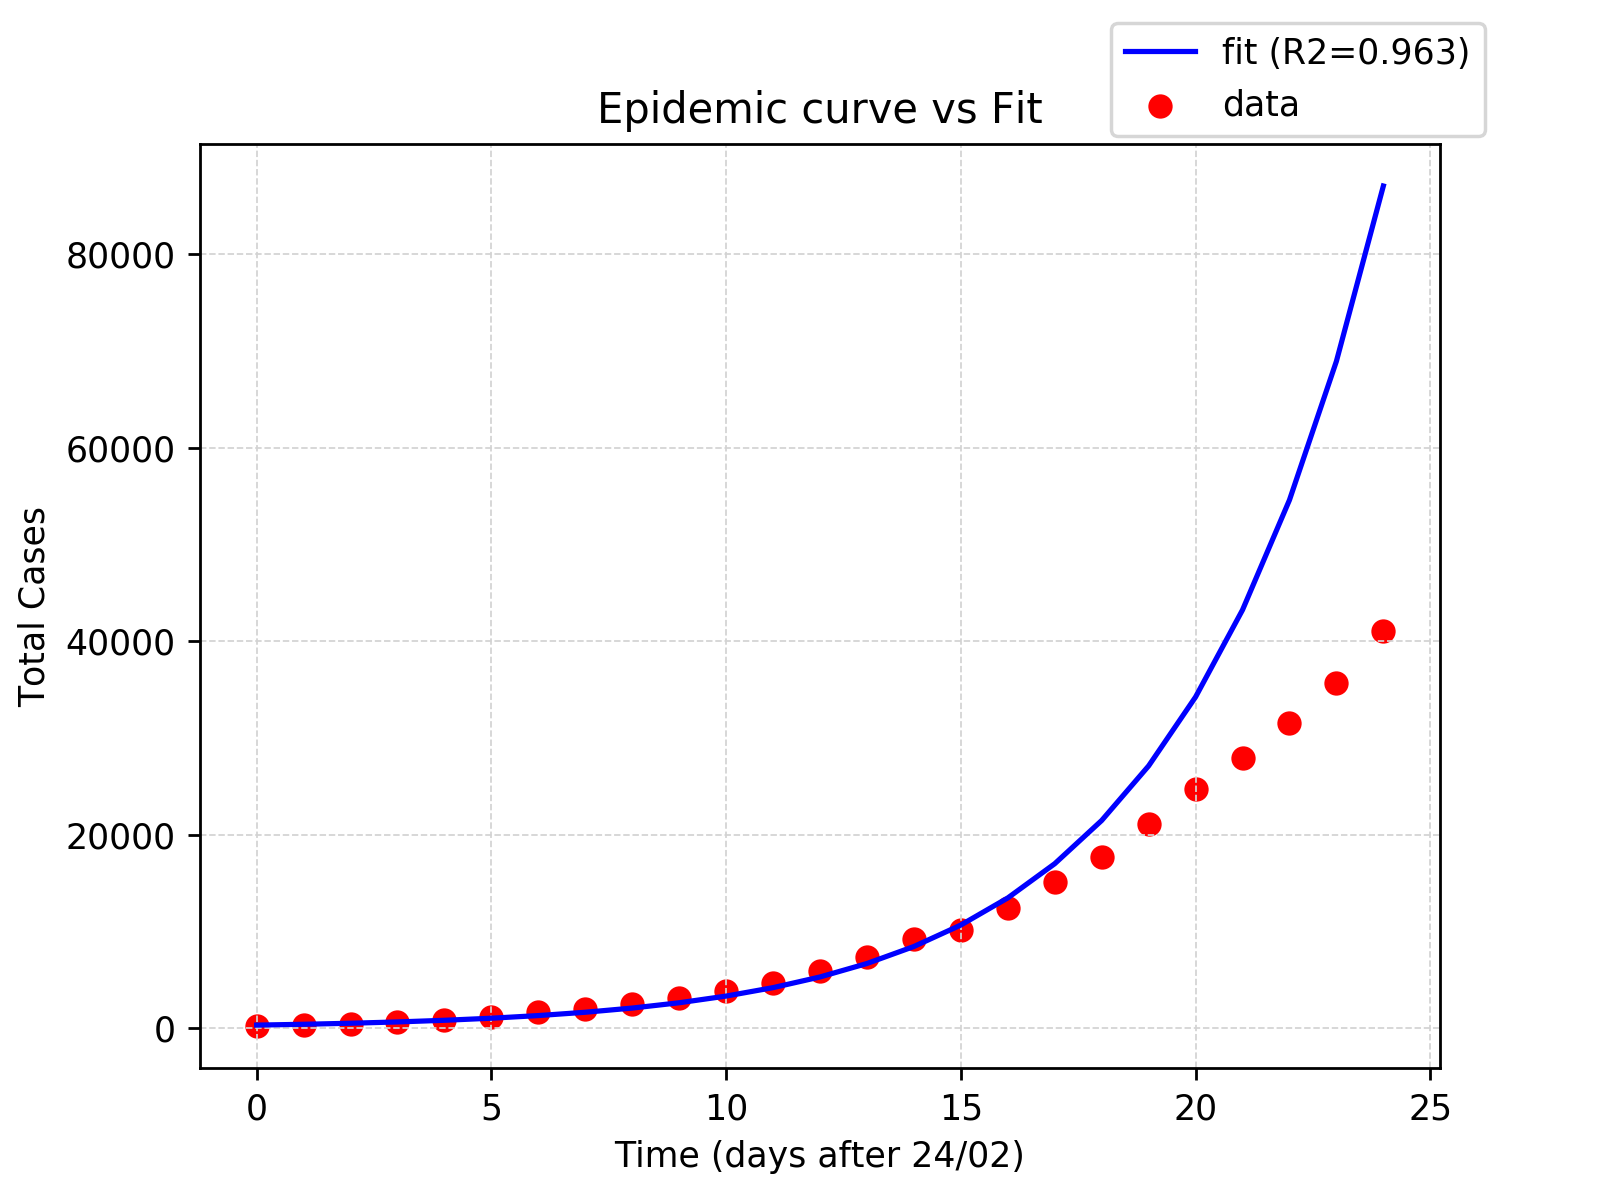
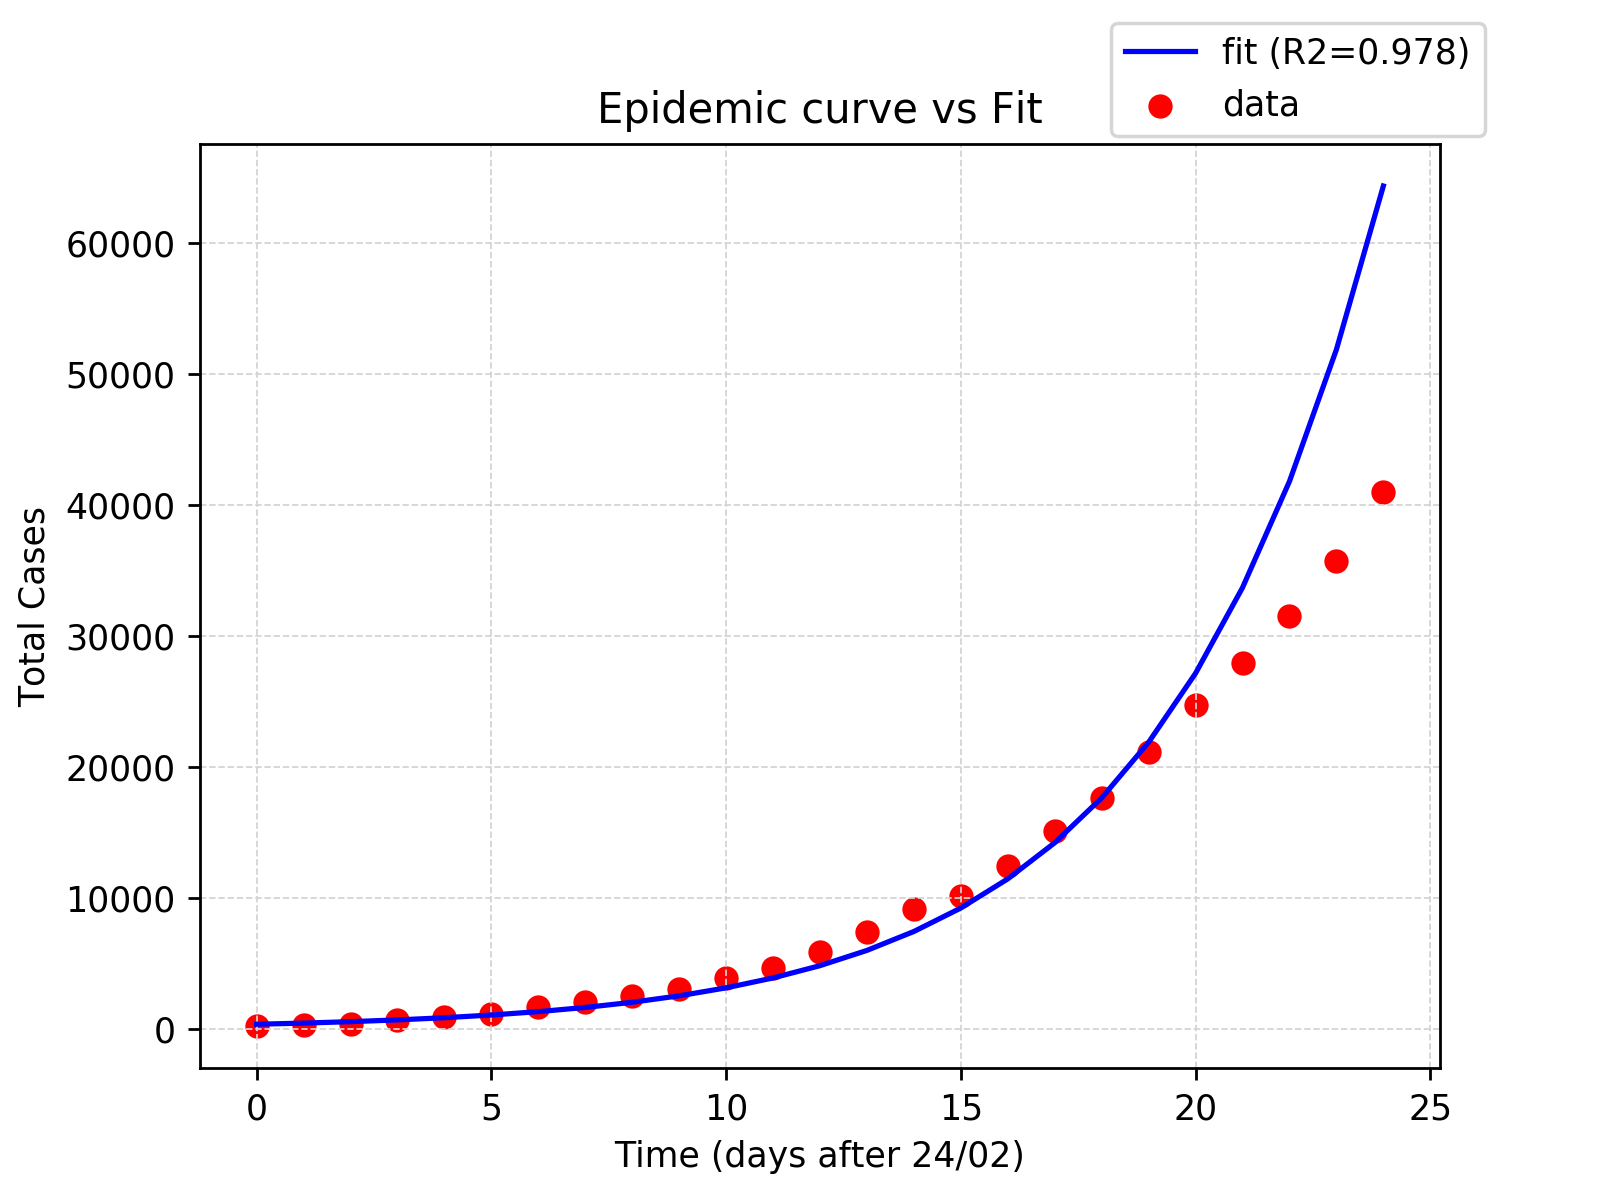
corrected exponential fitting on a bigger training set

diff --git a/plotscatter.py b/plotscatter.py
@@ -71,7 +71,7 @@ regressor = LinearRegression()
 #regressor = Lasso()
 
 # train on data without last few days
-minus_last_days_to_skip = -5
+minus_last_days_to_skip = -1
 x_train = x[:minus_last_days_to_skip]
 x_test = x[minus_last_days_to_skip:]
 y_train = y[:minus_last_days_to_skip]
